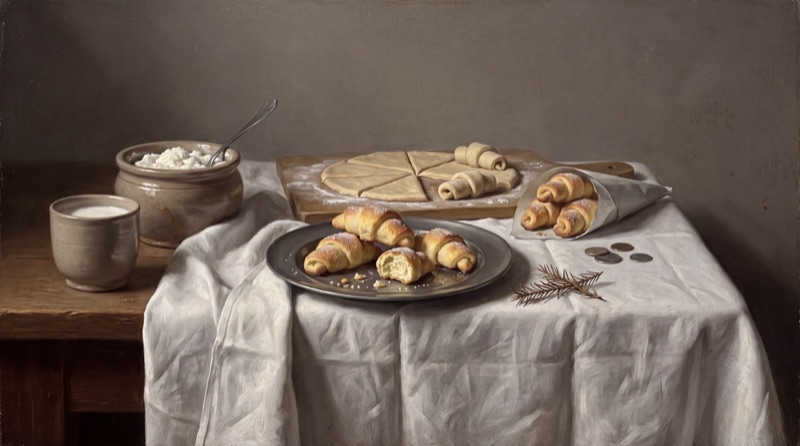
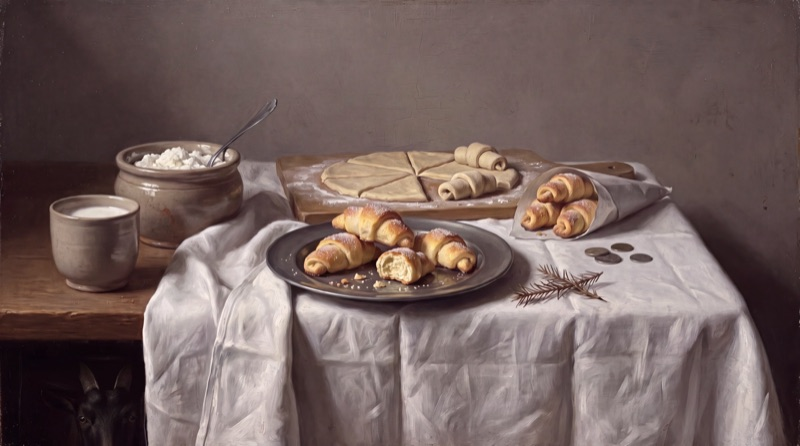
January: new painting with the goat (final from the Weave flow)

diff --git a/public/janvaris/index.html b/public/janvaris/index.html
@@ -13,7 +13,7 @@
 <meta property="og:description" content="Šo recepti ir veidojusi Elīna Apsīte, kas dzīvo Knīvstā, Upsalas lēnī, bet nāk no Smiltenes. Tieši Smiltenes kafejnīcās nobaudīti biezpiena radziņi, kādus,…">
 <meta property="og:type" content="article">
 <meta property="og:url" content="https://zlk2027.latviesi.se/janvaris/">
-<meta property="og:image" content="https://zlk2027.latviesi.se/img/janvaris.jpg?v=70249687">
+<meta property="og:image" content="https://zlk2027.latviesi.se/img/janvaris.jpg?v=005e5edd">
 <meta name="theme-color" content="#fdfbf2">
 <link rel="icon" href="/favicon.svg" type="image/svg+xml">
 <link rel="preconnect" href="https://fonts.googleapis.com">
@@ -37,7 +37,7 @@
     <p class="year">2027</p>
     <p class="month">Janvāris</p>
   </header>
-  <figure class="visual"><img src="/img/janvaris.jpg?v=70249687" srcset="/img/janvaris-800.jpg?v=59439524 800w, /img/janvaris.jpg?v=70249687 1600w" sizes="(min-width: 1200px) 1120px, 100vw" width="1600" height="893" alt="Biezpiena radziņi Smiltenes gaumē" fetchpriority="high"></figure>
+  <figure class="visual"><img src="/img/janvaris.jpg?v=005e5edd" srcset="/img/janvaris-800.jpg?v=9b7da8f4 800w, /img/janvaris.jpg?v=005e5edd 1600w" sizes="(min-width: 1200px) 1120px, 100vw" width="1600" height="893" alt="Biezpiena radziņi Smiltenes gaumē" fetchpriority="high"></figure>
   <section class="band">
     <div class="col col-1">
       <h1 class="recipe-title">Biezpiena radziņi Smiltenes gaumē</h1>

diff --git a/public/en/janvaris/index.html b/public/en/janvaris/index.html
@@ -13,7 +13,7 @@
 <meta property="og:description" content="This recipe comes from Elīna Apsīte, who lives in Knivsta in Uppsala County but comes from Smiltene. The cafés of Smiltene served these curd cheese…">
 <meta property="og:type" content="article">
 <meta property="og:url" content="https://zlk2027.latviesi.se/en/janvaris/">
-<meta property="og:image" content="https://zlk2027.latviesi.se/img/janvaris.jpg?v=70249687">
+<meta property="og:image" content="https://zlk2027.latviesi.se/img/janvaris.jpg?v=005e5edd">
 <meta name="theme-color" content="#fdfbf2">
 <link rel="icon" href="/favicon.svg" type="image/svg+xml">
 <link rel="preconnect" href="https://fonts.googleapis.com">
@@ -37,7 +37,7 @@
     <p class="year">2027</p>
     <p class="month">January</p>
   </header>
-  <figure class="visual"><img src="/img/janvaris.jpg?v=70249687" srcset="/img/janvaris-800.jpg?v=59439524 800w, /img/janvaris.jpg?v=70249687 1600w" sizes="(min-width: 1200px) 1120px, 100vw" width="1600" height="893" alt="Curd cheese crescents, Smiltene style" fetchpriority="high"></figure>
+  <figure class="visual"><img src="/img/janvaris.jpg?v=005e5edd" srcset="/img/janvaris-800.jpg?v=9b7da8f4 800w, /img/janvaris.jpg?v=005e5edd 1600w" sizes="(min-width: 1200px) 1120px, 100vw" width="1600" height="893" alt="Curd cheese crescents, Smiltene style" fetchpriority="high"></figure>
   <section class="band">
     <div class="col col-1">
       <h1 class="recipe-title">Curd cheese crescents, Smiltene style</h1>

diff --git a/public/sv/janvaris/index.html b/public/sv/janvaris/index.html
@@ -13,7 +13,7 @@
 <meta property="og:description" content="Receptet kommer från Elīna Apsīte, som bor i Knivsta i Uppsala län men kommer från Smiltene. Just på kaféerna i Smiltene fanns de här kvarghornen –…">
 <meta property="og:type" content="article">
 <meta property="og:url" content="https://zlk2027.latviesi.se/sv/janvaris/">
-<meta property="og:image" content="https://zlk2027.latviesi.se/img/janvaris.jpg?v=70249687">
+<meta property="og:image" content="https://zlk2027.latviesi.se/img/janvaris.jpg?v=005e5edd">
 <meta name="theme-color" content="#fdfbf2">
 <link rel="icon" href="/favicon.svg" type="image/svg+xml">
 <link rel="preconnect" href="https://fonts.googleapis.com">
@@ -37,7 +37,7 @@
     <p class="year">2027</p>
     <p class="month">Januari</p>
   </header>
-  <figure class="visual"><img src="/img/janvaris.jpg?v=70249687" srcset="/img/janvaris-800.jpg?v=59439524 800w, /img/janvaris.jpg?v=70249687 1600w" sizes="(min-width: 1200px) 1120px, 100vw" width="1600" height="893" alt="Kvarghorn på Smiltene-vis" fetchpriority="high"></figure>
+  <figure class="visual"><img src="/img/janvaris.jpg?v=005e5edd" srcset="/img/janvaris-800.jpg?v=9b7da8f4 800w, /img/janvaris.jpg?v=005e5edd 1600w" sizes="(min-width: 1200px) 1120px, 100vw" width="1600" height="893" alt="Kvarghorn på Smiltene-vis" fetchpriority="high"></figure>
   <section class="band">
     <div class="col col-1">
       <h1 class="recipe-title">Kvarghorn på Smiltene-vis</h1>

diff --git a/public/en/index.html b/public/en/index.html
@@ -40,7 +40,7 @@
   </header>
   <section class="grid" aria-label="All recipes">
 <a class="card" href="/en/janvaris/">
-  <figure class="visual"><img src="/img/janvaris.jpg?v=70249687" srcset="/img/janvaris-800.jpg?v=59439524 800w, /img/janvaris.jpg?v=70249687 1600w" sizes="(min-width: 1000px) 360px, (min-width: 560px) 50vw, 100vw" width="1600" height="893" alt="Curd cheese crescents, Smiltene style" loading="lazy"></figure>
+  <figure class="visual"><img src="/img/janvaris.jpg?v=005e5edd" srcset="/img/janvaris-800.jpg?v=9b7da8f4 800w, /img/janvaris.jpg?v=005e5edd 1600w" sizes="(min-width: 1000px) 360px, (min-width: 560px) 50vw, 100vw" width="1600" height="893" alt="Curd cheese crescents, Smiltene style" loading="lazy"></figure>
   <p class="month-line">January</p>
   <h2 class="recipe-title">Curd cheese crescents, Smiltene style</h2>
   <p class="credit">Elīna Apsīte, Knivsta</p>

diff --git a/public/index.html b/public/index.html
@@ -40,7 +40,7 @@
   </header>
   <section class="grid" aria-label="Visas receptes">
 <a class="card" href="/janvaris/">
-  <figure class="visual"><img src="/img/janvaris.jpg?v=70249687" srcset="/img/janvaris-800.jpg?v=59439524 800w, /img/janvaris.jpg?v=70249687 1600w" sizes="(min-width: 1000px) 360px, (min-width: 560px) 50vw, 100vw" width="1600" height="893" alt="Biezpiena radziņi Smiltenes gaumē" loading="lazy"></figure>
+  <figure class="visual"><img src="/img/janvaris.jpg?v=005e5edd" srcset="/img/janvaris-800.jpg?v=9b7da8f4 800w, /img/janvaris.jpg?v=005e5edd 1600w" sizes="(min-width: 1000px) 360px, (min-width: 560px) 50vw, 100vw" width="1600" height="893" alt="Biezpiena radziņi Smiltenes gaumē" loading="lazy"></figure>
   <p class="month-line">Janvāris</p>
   <h2 class="recipe-title">Biezpiena radziņi Smiltenes gaumē</h2>
   <p class="credit">Elīna Apsīte, Knīvsta</p>

diff --git a/public/sv/index.html b/public/sv/index.html
@@ -40,7 +40,7 @@
   </header>
   <section class="grid" aria-label="Alla recept">
 <a class="card" href="/sv/janvaris/">
-  <figure class="visual"><img src="/img/janvaris.jpg?v=70249687" srcset="/img/janvaris-800.jpg?v=59439524 800w, /img/janvaris.jpg?v=70249687 1600w" sizes="(min-width: 1000px) 360px, (min-width: 560px) 50vw, 100vw" width="1600" height="893" alt="Kvarghorn på Smiltene-vis" loading="lazy"></figure>
+  <figure class="visual"><img src="/img/janvaris.jpg?v=005e5edd" srcset="/img/janvaris-800.jpg?v=9b7da8f4 800w, /img/janvaris.jpg?v=005e5edd 1600w" sizes="(min-width: 1000px) 360px, (min-width: 560px) 50vw, 100vw" width="1600" height="893" alt="Kvarghorn på Smiltene-vis" loading="lazy"></figure>
   <p class="month-line">Januari</p>
   <h2 class="recipe-title">Kvarghorn på Smiltene-vis</h2>
   <p class="credit">Elīna Apsīte, Knivsta</p>
